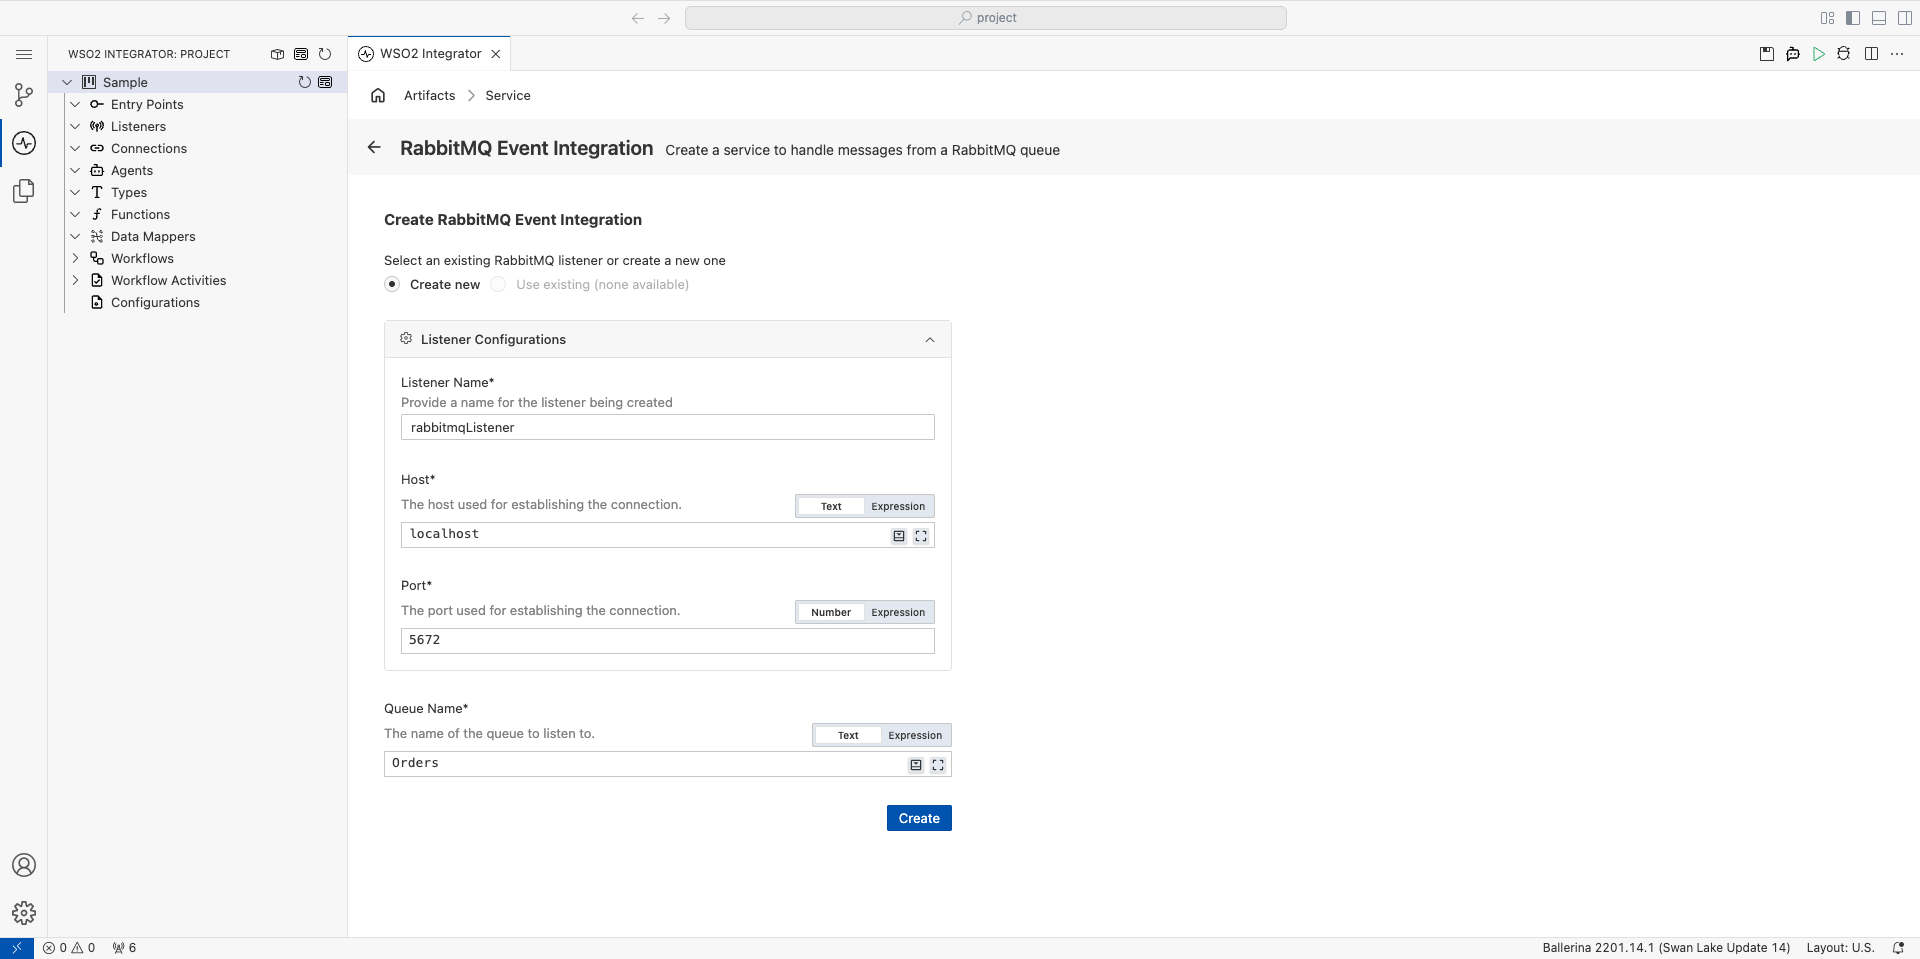
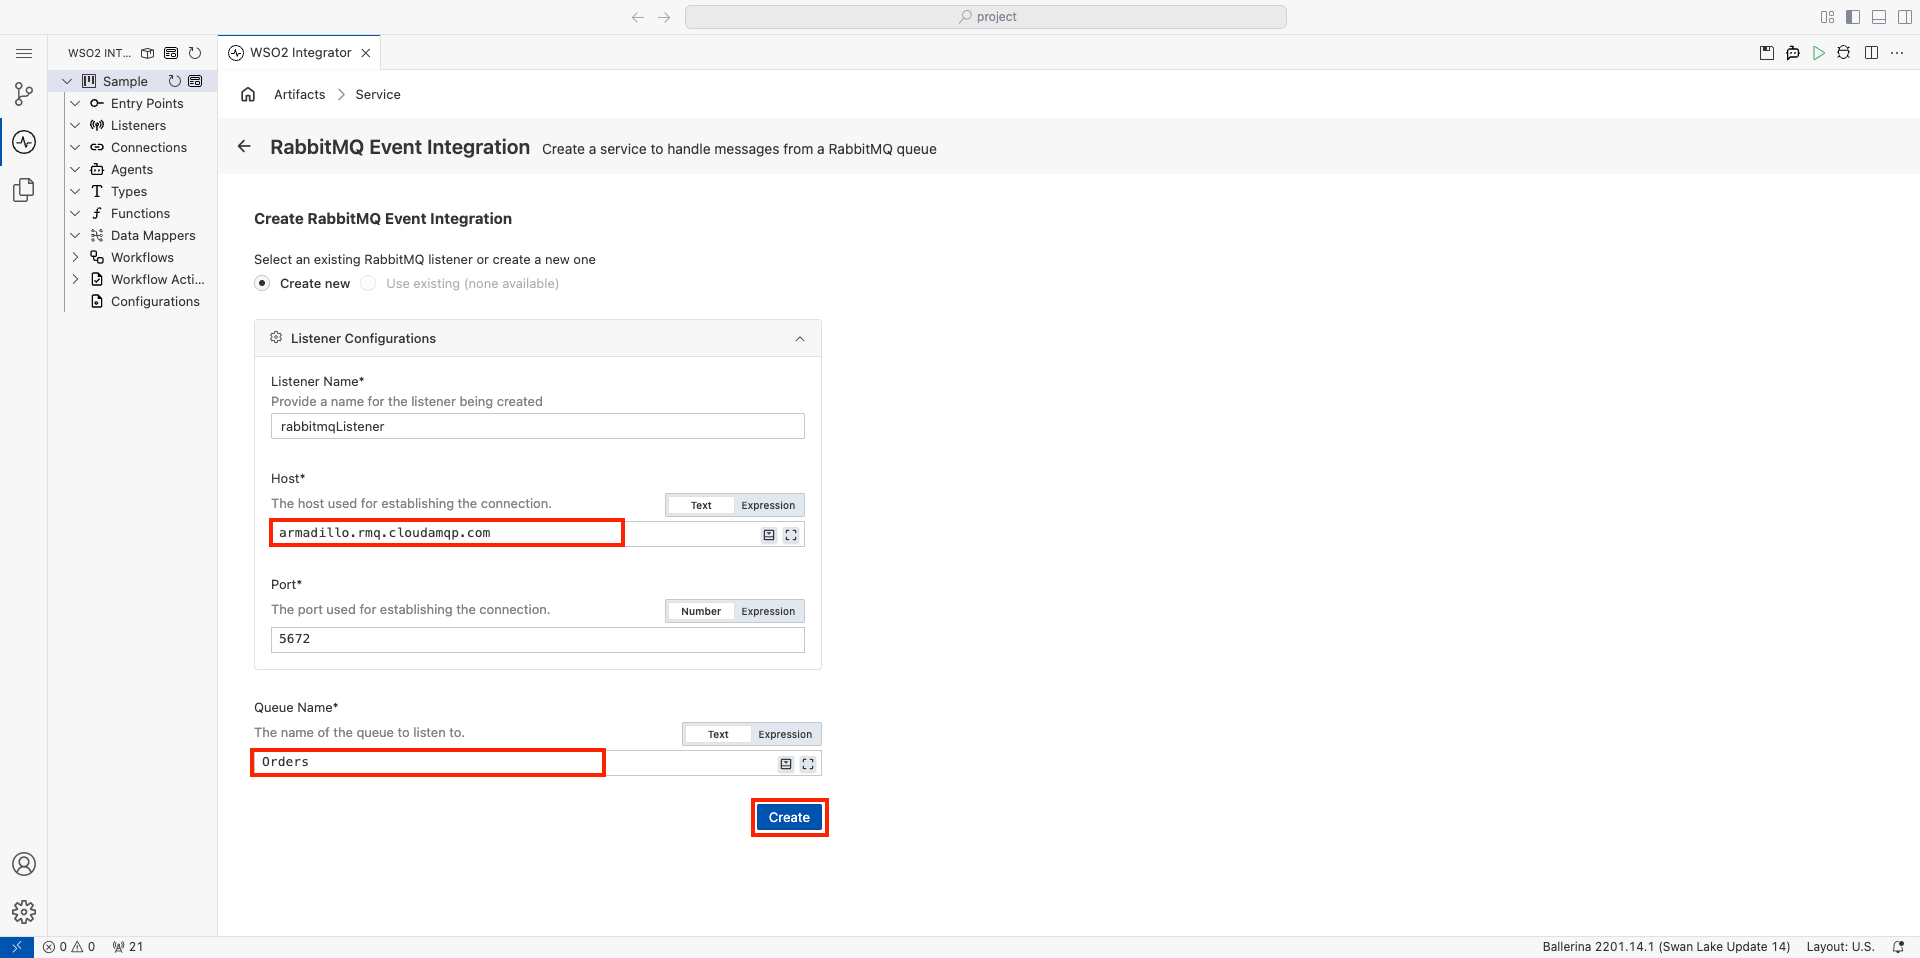
Use an internet-reachable RabbitMQ instance in the event-driven quickstart and remove unused images

diff --git a/en/docs/get-started/quickstarts/build-event-driven-integration.md b/en/docs/get-started/quickstarts/build-event-driven-integration.md
@@ -27,13 +27,21 @@ A working WSO2 Integrator environment.
 <PrereqCard icon="cloud" title="WSO2 Cloud setup" href="/get-started/setup">Sign up and launch WSO2 Integrator in the browser-based cloud editor.</PrereqCard>
 </div>
 
-You'll also need a running RabbitMQ instance. Start one with Docker:
-
 <div style={{gridColumn: '1 / -1', minWidth: 0}}>
 
-```bash
-docker run -d -p 5672:5672 -p 15672:15672 rabbitmq:4.2-management
-```
+You'll also need access to a RabbitMQ instance that is reachable over the internet. Have the following details ready:
+
+- The instance's host and port.
+- A username and password for the instance.
+- The instance's virtual host.
+
+:::tip Get a free RabbitMQ instance
+If you don't have a RabbitMQ instance, create a free one on [CloudAMQP](https://www.cloudamqp.com/) using the **Little Lemur** plan. Then open the instance and find its connection details under **AMQP details**. Use port `5672`, and use the **User & Vhost** value as both the username and the virtual host.
+:::
+
+:::info Note
+The cloud editor runs in WSO2 Cloud and cannot connect to a RabbitMQ instance running on `localhost` on your computer.
+:::
 
 </div>
 
@@ -53,7 +61,7 @@ docker run -d -p 5672:5672 -p 15672:15672 rabbitmq:4.2-management
        }}
    />
 
-2. The WSO2 Integrator cloud editor opens in your browser. Add an artifact to your integration, then deploy it to WSO2 Cloud from the Deploy to WSO2 Cloud panel on the right.
+2. The WSO2 Integrator cloud editor opens in your browser.
 
    <ThemedImage
     alt="WSO2 Integrator cloud editor landing page showing an empty integration and the Deploy to WSO2 Cloud panel"
@@ -89,7 +97,7 @@ The cloud editor creates a default integration for you, so you don't need to nam
        }}
    />
 
-3. Set **Host** to `localhost` and **Port** to `5672`. If your RabbitMQ instance runs elsewhere, use its host and port instead.
+3. Set **Host** to your RabbitMQ instance's host, and **Port** to its port. The default RabbitMQ port is `5672`.
 
 4. Set **Queue Name** to `Orders`.
 
@@ -103,11 +111,37 @@ The cloud editor creates a default integration for you, so you don't need to nam
        }}
    />
 
+6. Under **Listeners** in the project explorer, select **rabbitmqListener** to open the **Rabbitmq Listener Configuration** page.
+
+7. Set **Username** and **Password** to your RabbitMQ instance's username and password.
+
+8. Set **Virtual Host** to your instance's virtual host. For CloudAMQP, this is the same as the username.
+
+   <ThemedImage
+       alt="Rabbitmq Listener Configuration page with Username, Password, and Virtual Host set"
+       sources={{
+           light: useBaseUrl('/img/get-started/build-event-driven-integration/set-listener-credentials.png'),
+           dark: useBaseUrl('/img/get-started/build-event-driven-integration/set-listener-credentials.png'),
+       }}
+   />
+
+9. Scroll to the bottom of the page, and click **Save**.
+
+   <ThemedImage
+       alt="Bottom of the Rabbitmq Listener Configuration page with the Save button highlighted"
+       sources={{
+           light: useBaseUrl('/img/get-started/build-event-driven-integration/save-listener.png'),
+           dark: useBaseUrl('/img/get-started/build-event-driven-integration/save-listener.png'),
+       }}
+   />
+
 ## Step 3: Add `onMessage` event handler
 
-1. In the RabbitMQ service design view, click **+ Add Handler**.
+1. Under **Entry Points** in the project explorer, select **RabbitMQ Event Integration** to open the service design view.
 
-2. In the **Select Handler to Add** panel, select **On Message**.
+2. Click **+ Add Handler**.
+
+3. In the **Select Handler to Add** panel, select **On Message**.
 
    <ThemedImage
        alt="Select Handler to Add panel with On Message highlighted"
@@ -117,7 +151,7 @@ The cloud editor creates a default integration for you, so you don't need to nam
        }}
    />
 
-3. Click **Save**.
+4. Click **Save**.
 
    <ThemedImage
        alt="Configure On Message Handler panel with Format set to On Message and the Save button"
@@ -177,39 +211,29 @@ The cloud editor creates a default integration for you, so you don't need to nam
 
 1. Click **Run**. The integration starts and listens for messages on the `Orders` queue.
 
-2. Open the RabbitMQ Management UI at `http://localhost:15672`. The default username and password are both `guest`.
+2. In CloudAMQP, open your instance and click **RabbitMQ Manager**. The RabbitMQ management UI opens in a new tab, already signed in.
 
-3. Go to **Queues and Streams** > **Orders** > **Publish message**.
+3. Click the **Queues and Streams** tab, and then click **Orders** in the **Name** column.
 
-4. Enter any text as the payload, and click **Publish message**.
+4. On the **Orders** queue page, scroll down and click the **Publish message** section heading to open it.
 
-5. Confirm the integration log displays `Received order`.
+5. In **Payload**, enter any text, for example `order 1`.
+
+6. Click the **Publish message** button below the **Payload** box.
+
+7. Confirm the **Debug Console** shows a log line that ends with `message="Received order"`.
 
    <ThemedImage
-       alt="Running the integration and the Received order log in the terminal"
+       alt="Debug Console showing the Received order log line after a message is published"
        sources={{
-           light: useBaseUrl('/img/get-started/build-event-driven-integration/run-and-test-the-integration.gif'),
-           dark: useBaseUrl('/img/get-started/build-event-driven-integration/run-and-test-the-integration.gif'),
+           light: useBaseUrl('/img/get-started/build-event-driven-integration/run-and-test.png'),
+           dark: useBaseUrl('/img/get-started/build-event-driven-integration/run-and-test.png'),
        }}
    />
 
 ## Step 6: Deploy to WSO2 Cloud
 
 To deploy your integration to WSO2 Cloud from the cloud editor, see [Save and deploy](/deploy-and-run/deploy-to-wso2-cloud/deploy-from-cloud-editor#save-and-deploy).
-
-<div class="skip-ahead-card">
-
-<PaletteCard icon="ai" highlight>
-  <h3 class="palette-card-title">Skip ahead: deploy a ready-made sample</h3>
-  <p class="palette-card-desc">Rather not build it yourself? One-click deploy the OrderProcessor sample straight to WSO2 Cloud.</p>
-  <div class="palette-chip-row" style={{justifyContent: 'center'}}>
-    <a href="https://console.devant.dev/new?gh=wso2/integration-samples/tree/main/integrator-default-profile/quickstart/orderprocessor" target="_blank" rel="noopener noreferrer">
-      <img src="https://openindevant.choreoapps.dev/images/DeployDevant.svg" alt="Deploy to WSO2 Cloud" style={{display: 'block', margin: '0', border: 'none', boxShadow: 'none'}} />
-    </a>
-  </div>
-</PaletteCard>
-
-</div>
 
 </Steps>
 
@@ -224,10 +248,11 @@ The steps above generate the following complete, runnable Ballerina program:
 import ballerina/log;
 import ballerinax/rabbitmq;
 
-listener rabbitmq:Listener rabbitmqListener = new ("localhost", 5672);
+listener rabbitmq:Listener rabbitmqListener = new (host = "<your-rabbitmq-host>", port = 5672, username = "<your-username>", password = "<your-password>", virtualHost = "<your-vhost>");
 
-service "Orders" on rabbitmqListener {
-    remote function onMessage(rabbitmq:AnydataMessage message, rabbitmq:Caller caller) returns error? {
+@rabbitmq:ServiceConfig {queueName: "Orders"}
+service rabbitmq:Service on rabbitmqListener {
+    remote function onMessage(rabbitmq:AnydataMessage message) returns error? {
         do {
             log:printInfo("Received order");
         } on fail error err {
